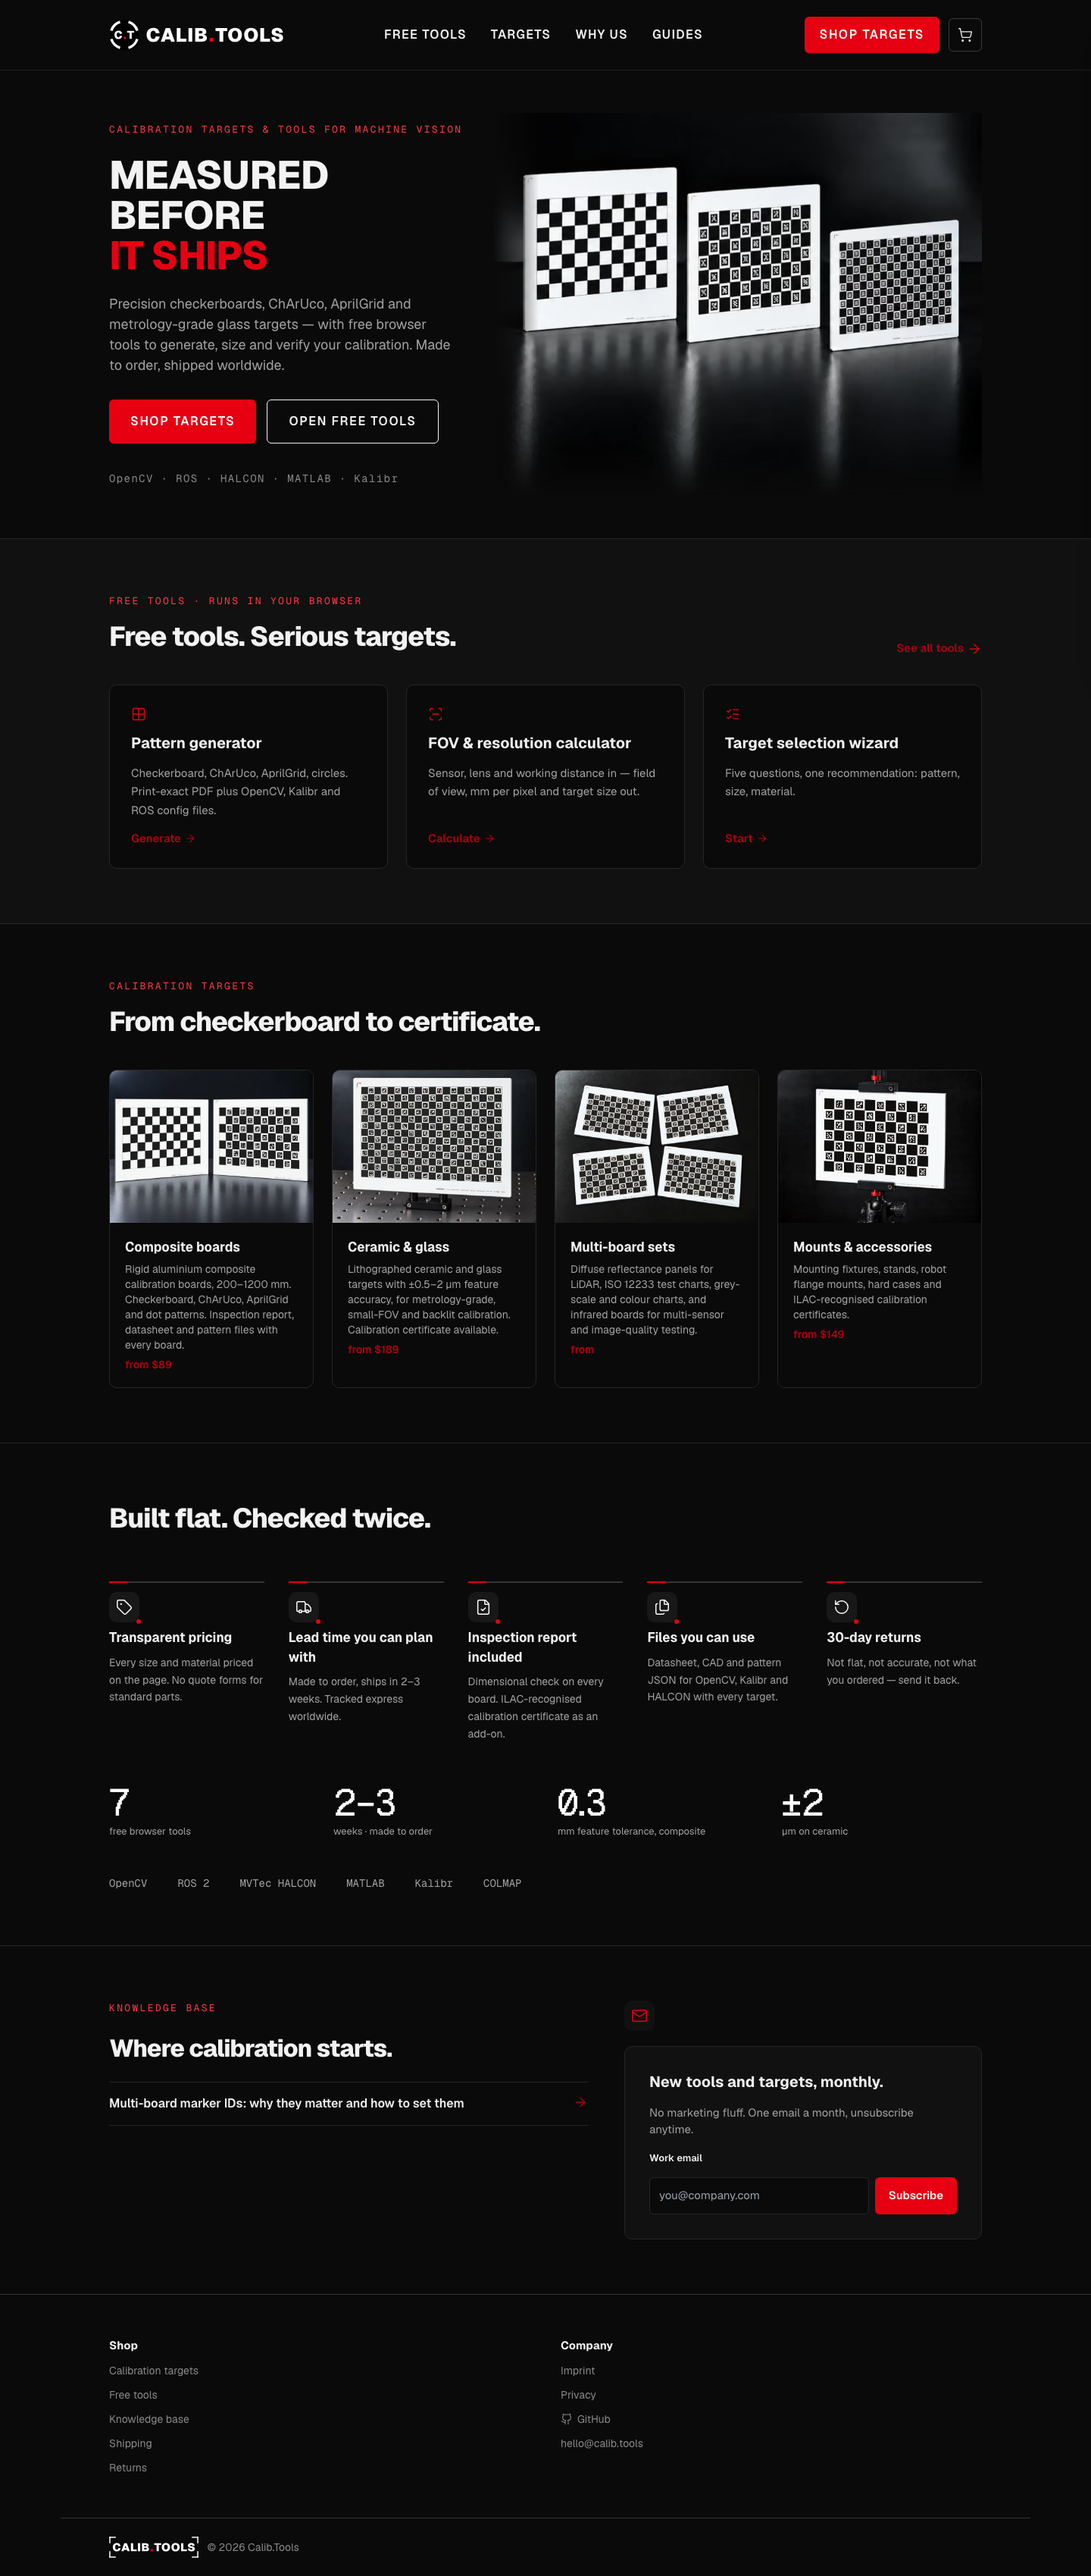
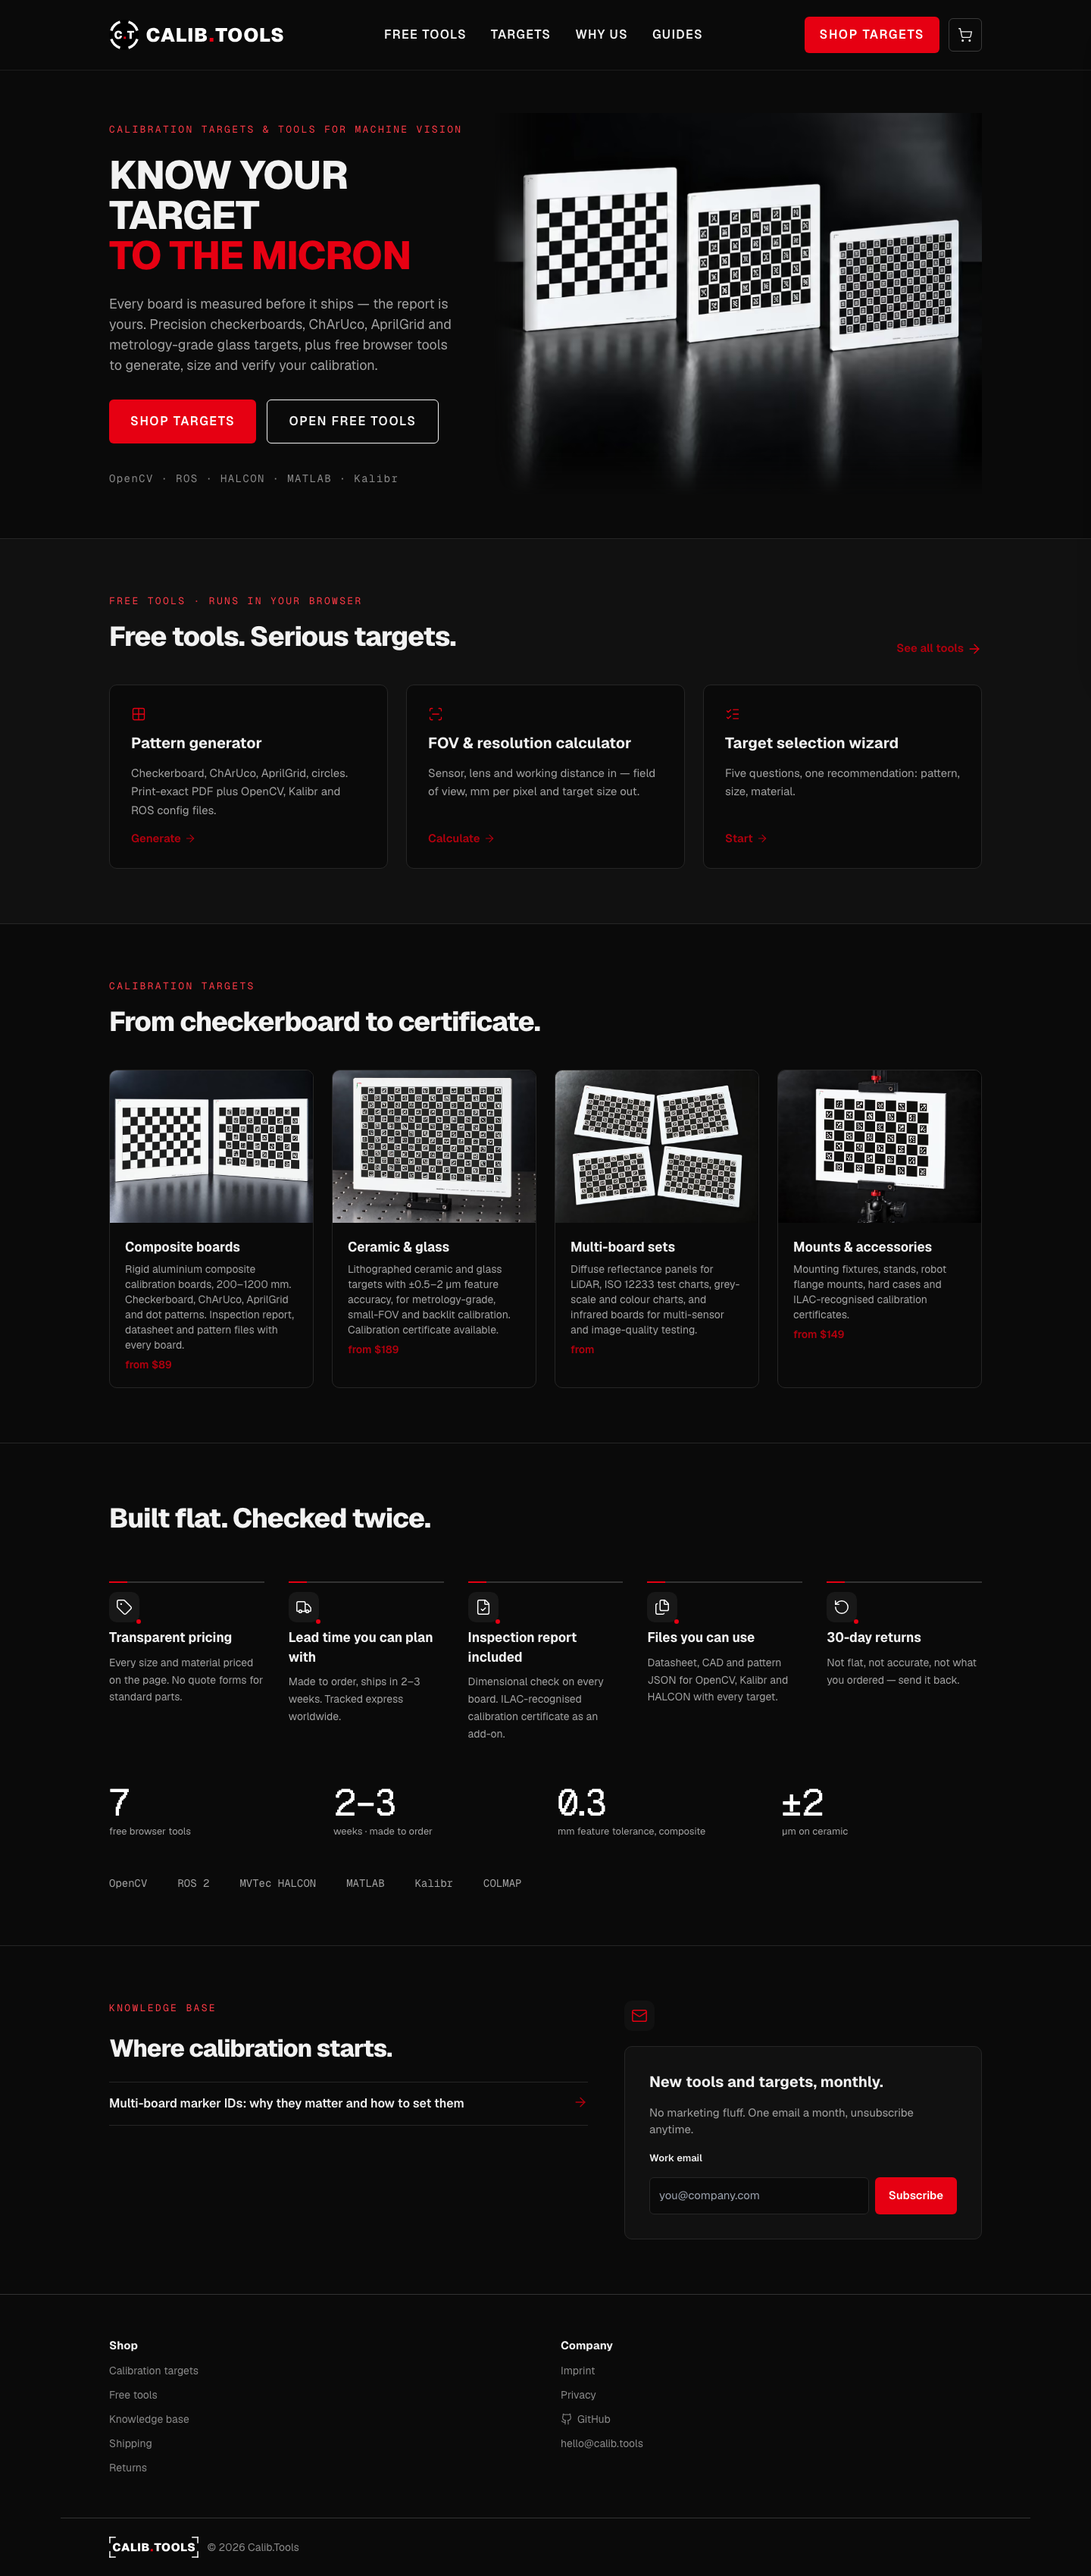
feat(copy): tagline → "Know your target to the micron", add composite micron guard
- TAGLINE = "Know your target to the micron" (H1, <title>, OG desc)
- INSPECTION_CLAIM_SHORT = "Measured before it ships" (kept as claim)
- Hero lede: "Every board is measured before it ships — the report is yours."
- OG placeholder generator updated to show new tagline
- About page description includes TAGLINE
- Playwright tests: H1 matches display form; composite product pages and
  composite-boards collection do NOT contain "micron"; screenshots for
  composite product page and ceramic collection added
- Docs manifest regenerated (claims.ts in hash)

Changed region(s): [[0.0938, 0.0624, 0.4062, 0.156]]

diff --git a/tests/e2e/redesign.spec.ts b/tests/e2e/redesign.spec.ts
@@ -246,3 +246,47 @@ test('brand-overlay.py config uses 300200 part numbers, not 300240', () => {
   expect(overlayScript).toContain('300200');
   expect(overlayScript).not.toContain('300240');
 });
+
+// ---------------------------------------------------------------------------
+// Tagline and micron claim guard
+// ---------------------------------------------------------------------------
+
+test('Home H1 displays TAGLINE in correct form', async ({ page }) => {
+  await page.setViewportSize({ width: 1440, height: 900 });
+  await page.goto('/');
+  const h1 = page.locator('[data-hero-h1]');
+  const text = (await h1.innerText())?.replace(/\s+/g, ' ').trim().toUpperCase();
+  expect(text).toBe('KNOW YOUR TARGET TO THE MICRON');
+});
+
+test('Composite product page does not contain "micron"', async ({ page }) => {
+  await page.goto('/targets/charuco-composite/');
+  const body = await page.locator('main').textContent();
+  expect(body?.toLowerCase()).not.toContain('micron');
+});
+
+test('Composite collection page does not contain "micron"', async ({ page }) => {
+  await page.goto('/targets/collection/composite-boards/');
+  const body = await page.locator('main').textContent();
+  expect(body?.toLowerCase()).not.toContain('micron');
+});
+
+test('Checkerboard composite product page does not contain "micron"', async ({ page }) => {
+  await page.goto('/targets/checkerboard-composite/');
+  const body = await page.locator('main').textContent();
+  expect(body?.toLowerCase()).not.toContain('micron');
+});
+
+test('Composite product page screenshot 1440px', async ({ page }) => {
+  await page.setViewportSize({ width: 1440, height: 900 });
+  await page.goto('/targets/charuco-composite/');
+  await page.waitForLoadState('networkidle');
+  await page.screenshot({ path: 'screenshots/product-composite-1440.png', fullPage: true });
+});
+
+test('Ceramic collection screenshot 1440px', async ({ page }) => {
+  await page.setViewportSize({ width: 1440, height: 900 });
+  await page.goto('/targets/collection/ceramic-glass/');
+  await page.waitForLoadState('networkidle');
+  await page.screenshot({ path: 'screenshots/collection-ceramic-1440.png', fullPage: true });
+});

diff --git a/scripts/generate-placeholders.ts b/scripts/generate-placeholders.ts
@@ -56,7 +56,7 @@ const ogSvg = `<svg xmlns="http://www.w3.org/2000/svg" width="1200" height="630"
   <text x="540" y="310" font-family="'Geist', system-ui, sans-serif" font-size="48" font-weight="800" fill="${BRAND_INK}">Calib</text>
   <text x="710" y="310" font-family="'Geist', system-ui, sans-serif" font-size="48" font-weight="800" fill="${BRAND_RED}">.Tools</text>
   <!-- Tagline -->
-  <text x="600" y="360" font-family="'Geist', system-ui, sans-serif" font-size="20" fill="#6B6B6B" text-anchor="middle">Precision calibration targets &amp; free browser tools</text>
+  <text x="600" y="360" font-family="'Geist', system-ui, sans-serif" font-size="20" fill="#6B6B6B" text-anchor="middle">Know your target to the micron</text>
   <!-- URL -->
   <text x="600" y="580" font-family="monospace" font-size="16" fill="#9A9A9A" text-anchor="middle">${BRAND_URL}</text>
 </svg>`;

diff --git a/src/lib/claims.ts b/src/lib/claims.ts
@@ -23,5 +23,8 @@ export const CERT_CLAIM =
 /** Default Incoterm (to be confirmed). */
 export const INCOTERM = 'DAP' as const;
 
+/** Short inspection claim — used where the full INSPECTION_CLAIM is too long. */
+export const INSPECTION_CLAIM_SHORT = 'Measured before it ships';
+
 /** Primary tagline — used for the home H1, <title> suffix, OG fallback. */
-export const TAGLINE = 'Measured before it ships';
+export const TAGLINE = 'Know your target to the micron';
